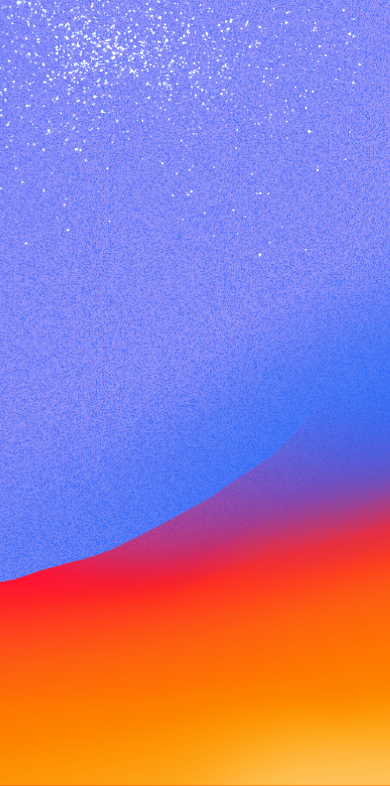
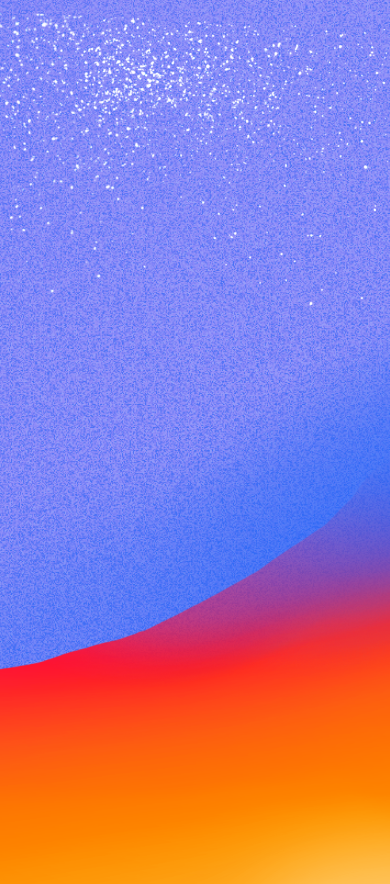
changes in landing images

Changed region(s): [[0.0, 0.0, 1.0, 0.7634], [0.5538, 0.9466, 0.8, 1.0]]

diff --git a/src/components/newsFeed/Landing.svelte b/src/components/newsFeed/Landing.svelte
@@ -3,28 +3,24 @@
   import VerticalSocials from "../shared/VerticalSocials.svelte"
 </script>
 
-<section id="landing-news" class="relative flex items-center">
+<section id="landing-news" class="relative flex">
   <VerticalSocials class="lg:top-72 lg:left-10" />
-  <div class="section-wrapper md:w-4/5 mx-auto px-8 md:px-4">
-    <LandingHeading landingHeadingText="Co se u nás právě děje?" class="text-white md:pt-40 lg:ml-8 xl:pt-48 md:pb-40" />
+  <div class="section-wrapper w-full text-right sm:text-left sm:w-4/5 mx-auto px-8 sm:px-4">
+    <LandingHeading landingHeadingText="Co se u nás právě děje?" class="text-white mt-36 lg:ml-8 xl:mt-48 sm:mb-40 xl:mb-64" />
   </div>
 </section>
 
 <style>
-  
-
   #landing-news {
     background: url('../assets/news/m_news_landing.png') no-repeat;
     background-position-y: 10%;
     background-size: 100% 100%;
-    min-height: 80vh;
+    min-height: 60vh;
   }
-  @media screen and (min-width: 768px) {
+  @media screen and (min-width: 640px) {
     #landing-news {
       background: url('../assets/news/news_landing.png') no-repeat;
       background-position-y: 10%;
-      background-size: cover;
-      min-height: 0;
     }
   }  
 </style>

diff --git a/src/components/partners/Landing.svelte b/src/components/partners/Landing.svelte
@@ -24,7 +24,14 @@
 
 <style>
   #landing-partners {
-    background: url('../assets/partners/partners_landing.png') no-repeat top;
+    background: url('../assets/partners/m_partners_landing.png') no-repeat top;
     background-size: cover;
+  }
+
+  @media screen and (min-width: 640px) {
+    #landing-partners {
+      background: url('../assets/partners/partners_landing.png') no-repeat top;
+      background-size: cover;
+    }
   }
 </style>

diff --git a/src/components/newsFeed/NewsList.svelte b/src/components/newsFeed/NewsList.svelte
@@ -23,7 +23,7 @@ import NewsItemLink from "../../atoms/NewsItemLink.svelte";
   ]
 </script>
 
-<section id="news-list" class="py-6">
+<section id="news-list" class="relative -top-64 sm:-top-36 py-6">
   <div class="news-wrapper px-4 md:w-4/5 mx-auto">
     {#each newsList as newsItem}
       <div class="flex mb-12 lg:justify-between flex-wrap">

diff --git a/src/components/lineup/Landing.svelte b/src/components/lineup/Landing.svelte
@@ -29,7 +29,7 @@ import BandList from "./BandList.svelte";
     background-position-x: center;
   }
 
-  @media screen and (min-width: 768px) {
+  @media screen and (min-width: 640px) {
     #landing-lineup {
       background: url('../assets/lineup/lineup_landing.png') no-repeat top;
       background-size: cover;

diff --git a/src/components/contact/Landing.svelte b/src/components/contact/Landing.svelte
@@ -22,7 +22,7 @@
     min-height: 50vh;
   }
 
-  @media screen and (min-width: 768px) {
+  @media screen and (min-width: 640px) {
     #landing-contact {
       background: url('../assets/contact/contact_landing.png') no-repeat top;
       background-size: cover;

diff --git a/src/components/majalesKing/Landing.svelte b/src/components/majalesKing/Landing.svelte
@@ -27,7 +27,7 @@
     background-size: cover;
   }
 
-  @media screen and (min-width: 768px) {
+  @media screen and (min-width: 640px) {
     #landing-king {
       background: url('../assets/king/king_landing.png') no-repeat top;
       background-size: cover;

diff --git a/src/components/home/Landing.svelte b/src/components/home/Landing.svelte
@@ -25,7 +25,7 @@
     font-size: 1.6rem;
   }
 
-  @media screen and (min-width: 768px) {
+  @media screen and (min-width: 640px) {
     #landing {
       background: url('../assets/home/home_landing.png') no-repeat top;
       background-size: cover;
